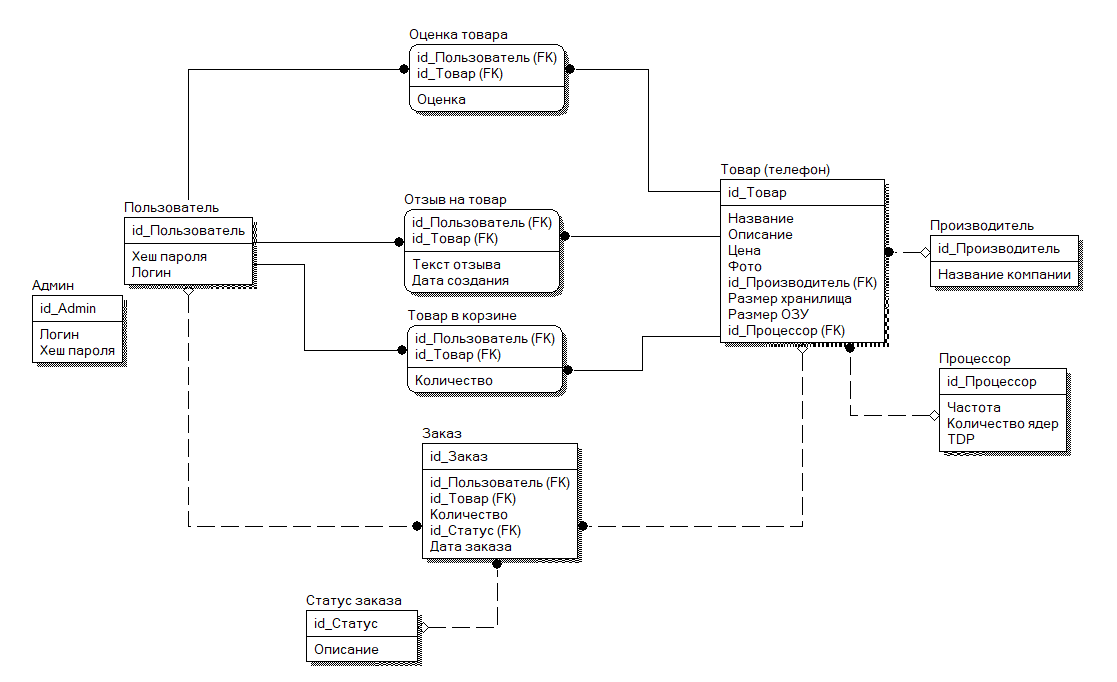
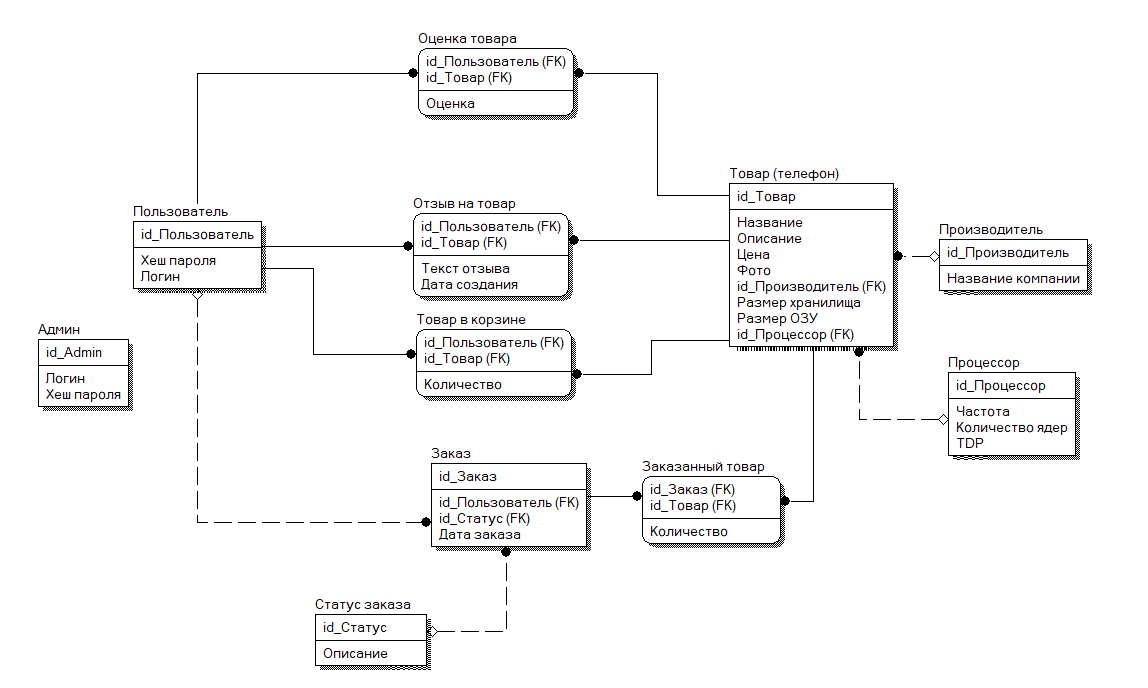
обновил модель

diff --git a/README.md b/README.md
@@ -18,7 +18,18 @@
 - Корзина пользователя
   - пользователь, кому принадлежит
   - список товаров (товар, кол-во)
+- Заказ
+  - пользователь, сделавший заказ
+  - дата заказа
+  - статус заказа (в пути, доставлен, отменён)
+  - Товары в заказе (тип товара, количество)
 
 ## Описание
 Пользователь может просматривать товары, ставить им оценку, оставлять отзывы и добавлять товары себе в корзину.
+
+Пользователь может сделать заказ, в который попадут все товары из его корзины. После этого корзина опустеет, и в системе появится новый заказ.
+
 Админ может создавать, редактировать и удалять товары. Админ имеет доступ на редактирование корзин всех пользователей. Админ может удалять оценки и отзывы пользователей.
+
+Данный проект моделирует работу большого распределительного центра, клиентами которогоявляются более мелкие организации
+(ремонтные мастерские, маленькие магазины техники, и т. д.). Поэтому ситуация, когда клиент делает большой заказ, состоящий из большого количества разных телефонов, абсолютно возможна и имеет смысл.
